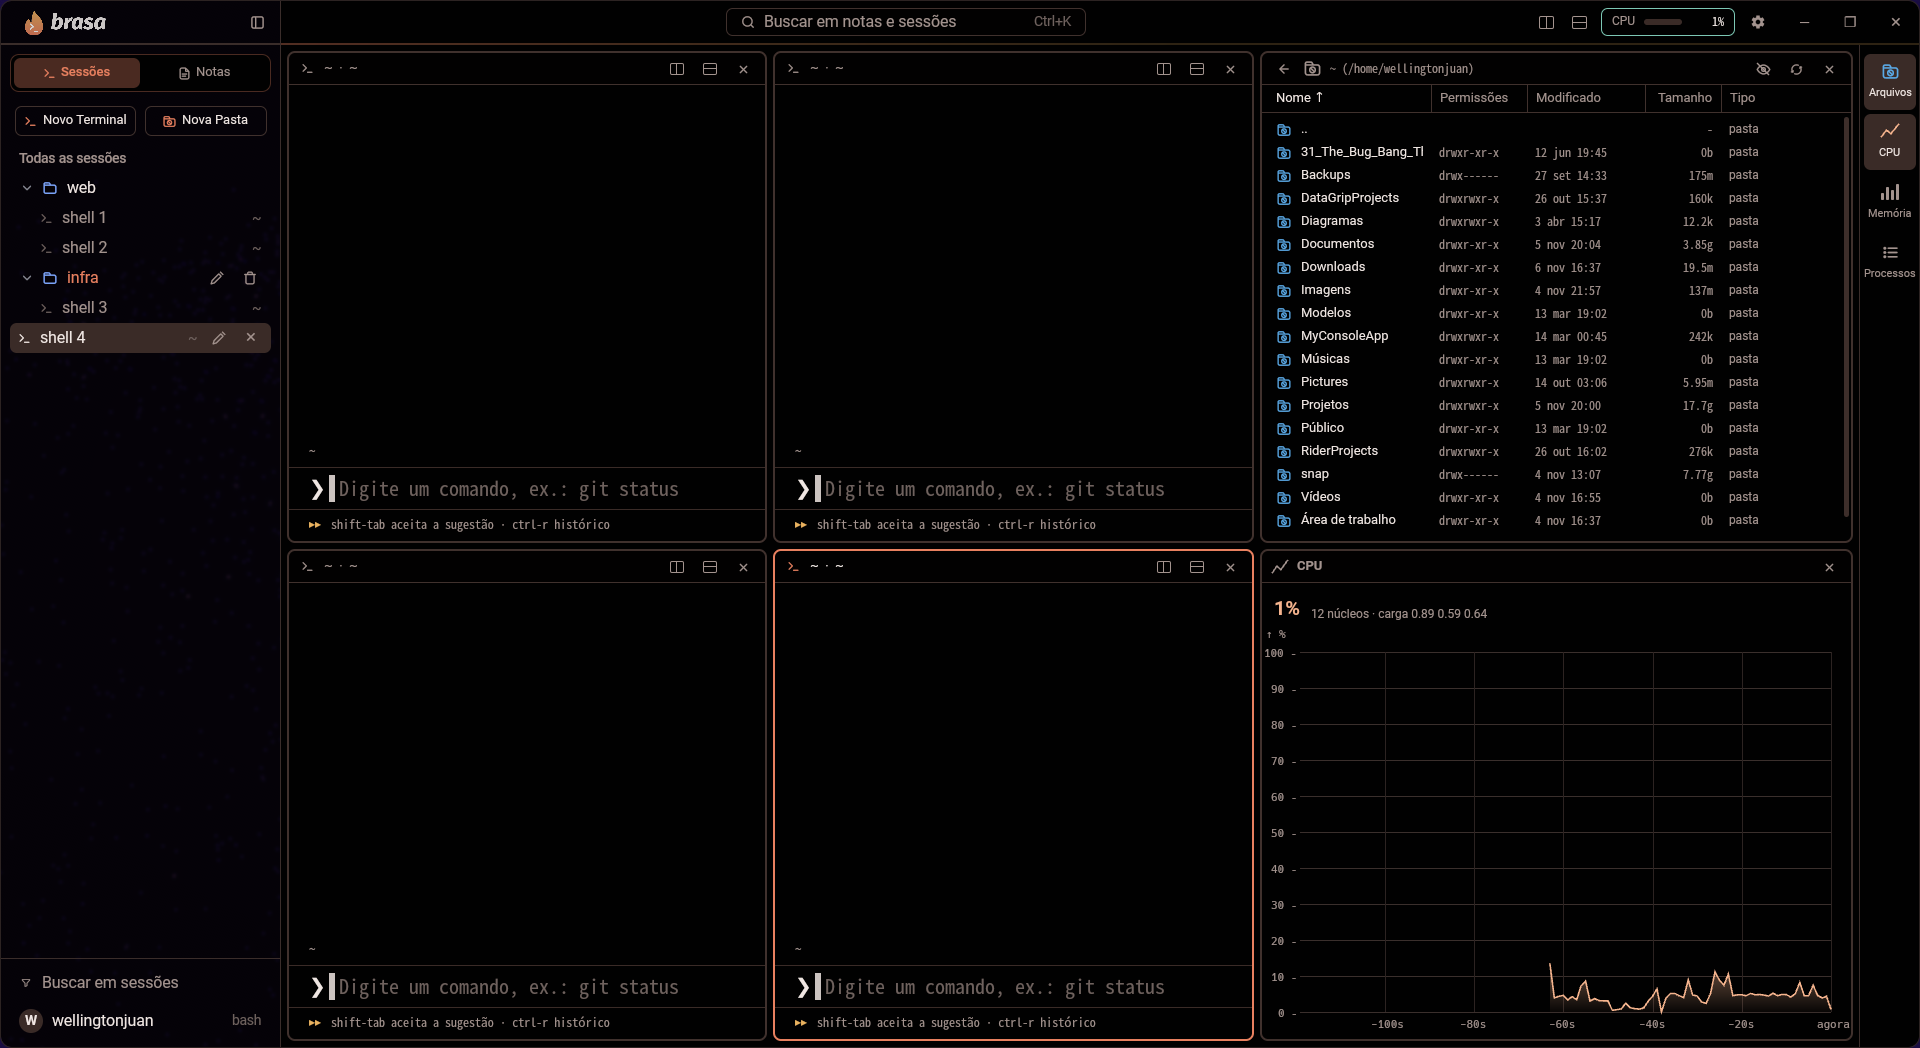
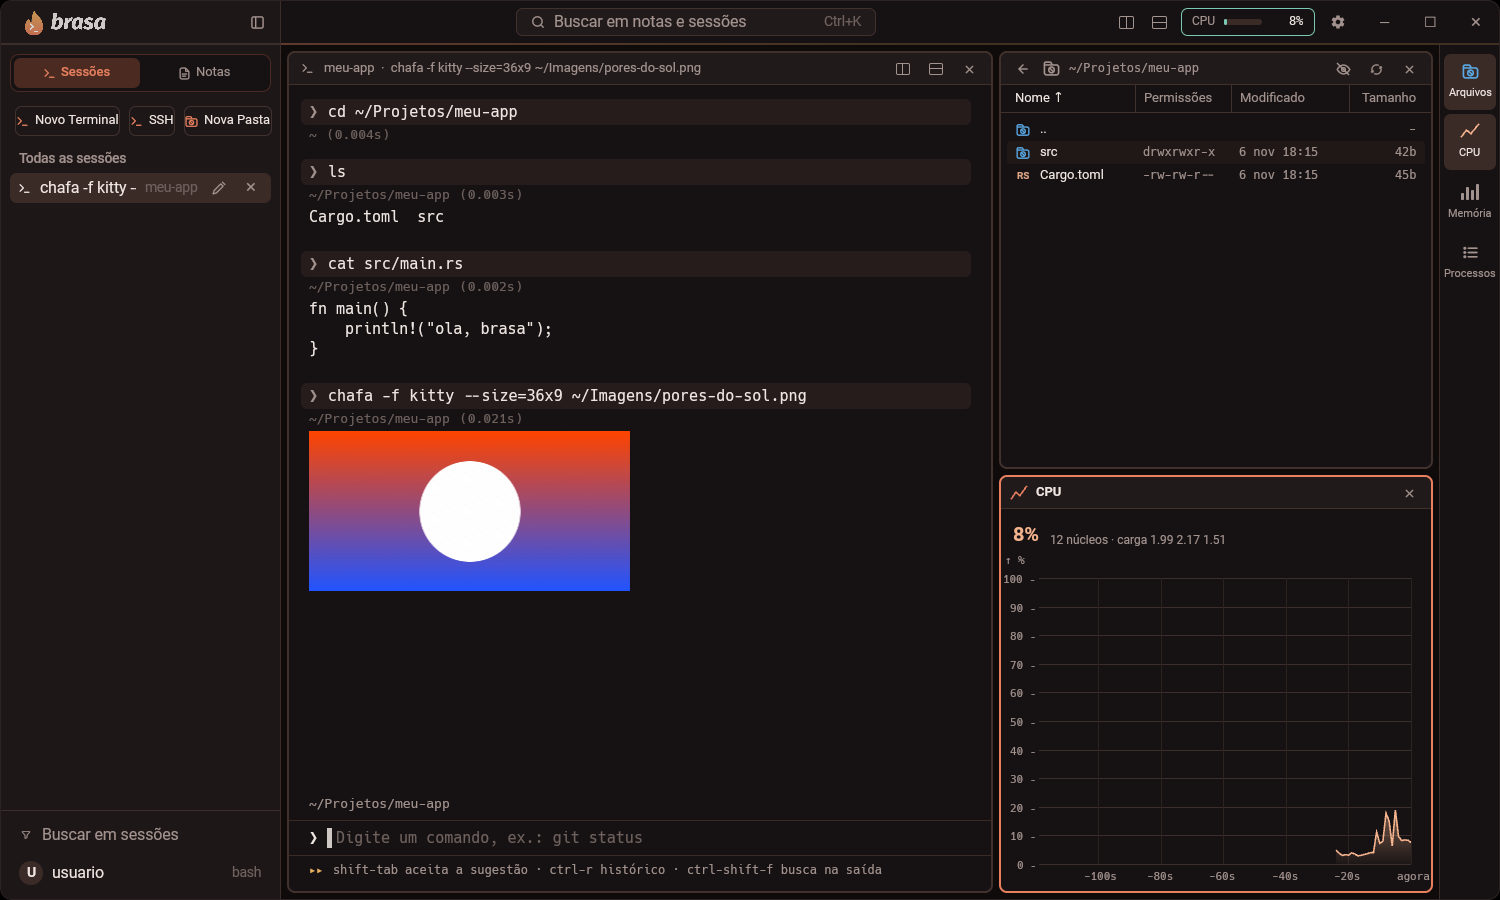
Versão 1.3.0: SSH integrado e imagens no terminal; captura de tela sem dados pessoais

diff --git a/ROADMAP.md b/ROADMAP.md
@@ -9,8 +9,8 @@ Esforço: P = dias, M = 1–2 semanas, G = várias semanas.
 |---|---|---|
 | 1.0.0 | Terminal em blocos, notas em Markdown que executam, gerenciador de arquivos, monitor de CPU/memória/processos | Publicada |
 | 1.1.0 | Configurações, temas por cor e fundo, fontes, busca global (`Ctrl+K`), atalhos configuráveis, aviso de versão | Publicada |
-| 1.2.x | Atualização dentro do app, histórico inteligente e `Ctrl+R`, notas com variáveis e "Rodar todos", `.rpm` e Flatpak, método de latência | Publicada (atual: 1.2.3) |
-| 1.3.0 | Imagens no terminal (Kitty), SSH integrado, mais vazão | A fazer |
+| 1.2.x | Atualização dentro do app, histórico inteligente e `Ctrl+R`, notas com variáveis e "Rodar todos", `.rpm` e Flatpak, método de latência | Publicada (1.2.3) |
+| 1.3.0 | SSH integrado (`Ctrl+Shift+H`) e imagens no terminal (protocolo Kitty) | Em lançamento |
 | 1.4.0 | MCP | A fazer |
 | 1.5.0 | Editor de banco de dados (SQLite primeiro) | A fazer |
 | 2.0.0 | macOS e Windows | A fazer |
@@ -24,7 +24,6 @@ Esforço: P = dias, M = 1–2 semanas, G = várias semanas.
 | Atualização no AppImage | Provada só no `.deb` (1.2.2 para 1.2.3); no AppImage o código troca o próprio arquivo e ainda não foi exercitado | Na próxima versão publicada, a partir de um AppImage |
 | Comparação de latência | Método e script prontos; falta medir em tela real com GPU contra kitty, alacritty, foot, wezterm | Quando houver forma de medir em tela real (ver `docs/latencia.md`) |
 | Releases 1.2.0 e 1.2.1 apagadas | Tinham a atualização dentro do app quebrada (filtro de endereço sensível a maiúsculas). Quem as instalou troca à mão uma vez | Nada a fazer; só avisar se alguém perguntar |
-| Captura do README | Mostra a pasta pessoal e o nome de usuário do autor num repositório público | Trocar por uma captura com pasta de exemplo |
 | Pacotes sem assinatura | `.deb`, `.rpm` e AppImage só têm soma SHA-256; sem assinatura GPG | Se um dia houver repositório próprio |
 | Estado de `branding/logo/` e `docs/relatorio-comparativo.md` | Ficam fora do repositório de propósito | Decidir se entram |
 | Saída imediata do app numa aba do terminal do Claude | Aconteceu uma vez, sem causa achada; o AppImage abre normalmente (o problema era a permissão de execução) | Só se voltar |
@@ -82,7 +81,7 @@ Seis marcos, na ordem em que eu faria. Cada um tem o que entra e "pronto quando"
 - Publicar depois uma versão seguinte pequena (1.2.1) só para provar a atualização dentro do app.
 - Pronto quando: a atualização de 1.2.0 para 1.2.1 funciona no AppImage e no `.deb`.
 
-## 1.3.0 — Terminal completo (M a G)
+## 1.3.0 — Terminal completo (M a G) (pronto para lançar)
 
 Quatro marcos. A vazão com saída enorme ficou de fora por decisão anterior (já está em cerca de 60 MB/s, 3º de 9 no comparativo); só volta se você pedir.
 

diff --git a/README.md b/README.md
@@ -11,7 +11,7 @@
 ![Rust](https://img.shields.io/badge/Rust-GPUI-dea584?style=flat-square&logo=rust&logoColor=black)
 ![Licença](https://img.shields.io/badge/licença-AGPL--3.0-e9b25f?style=flat-square)
 
-<img src="docs/captura.png" alt="Brasa com quatro terminais, o gerenciador de arquivos e o painel de CPU" width="860">
+<img src="docs/captura.png" alt="Brasa com um terminal mostrando uma imagem, o gerenciador de arquivos e o painel de CPU" width="860">
 
 </div>
 
